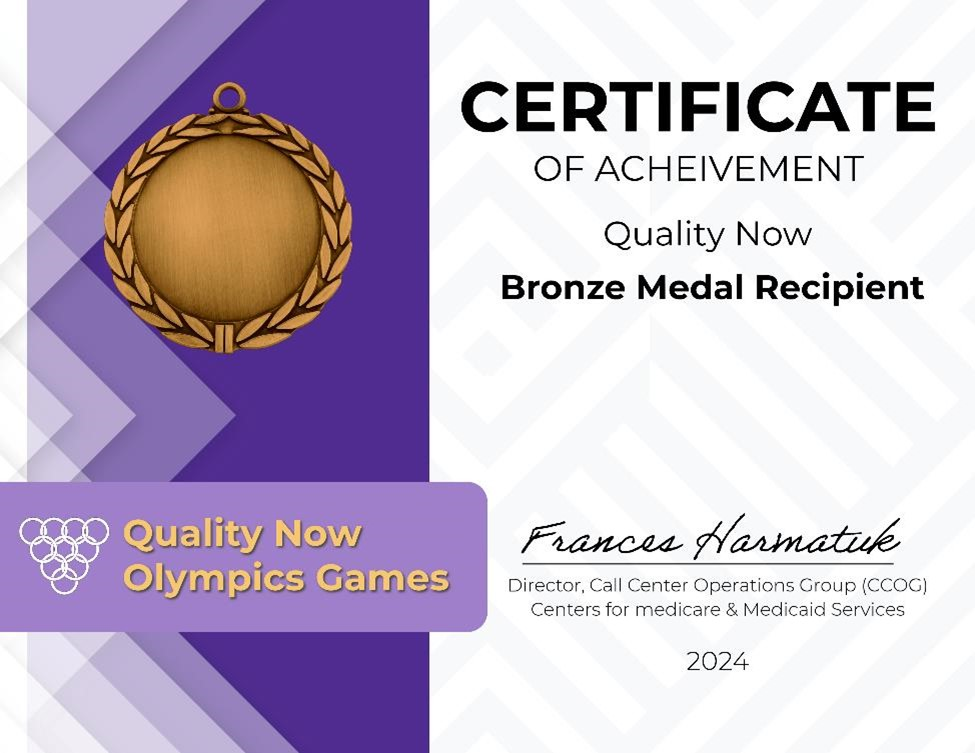
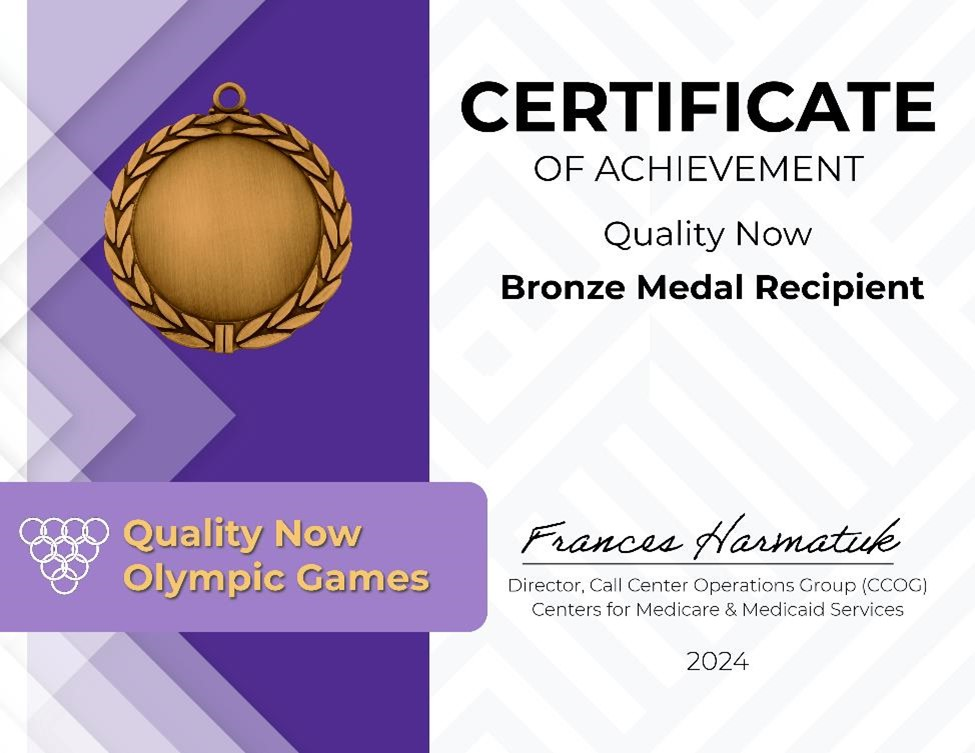
27927 - QN Olympic Rewards. Corrected typo.
git-tfs-id: [https://tfs.omnicloud.local/tfs/cco%20program/]$/eCoaching_V2;C53786

Changed region(s): [[0.5538, 0.7942, 0.9231, 0.8247], [0.2769, 0.7331, 0.4615, 0.7942], [0.6769, 0.2138, 0.7385, 0.2444]]

diff --git a/Code/Web Development/eCoachingLog/eCoachingLog/Scripts/eCoachingLog/global.js b/Code/Web Development/eCoachingLog/eCoachingLog/Scripts/eCoachingLog/global.js
@@ -7,9 +7,10 @@ $(function () {
 	var userTimeoutPlugin = $(document).userTimeout({
 		keepAliveUrl: keepSessionAliveUrl,
 		logouturl: logoutUrl,
-		session: 1500000, // Display modal dialog after user idles for 25 minutes (25*60*1,000 = 1500,000 milliseconds)
+	    //session: 1500000, // Display modal dialog after user idles for 25 minutes (25*60*1,000 = 1500,000 milliseconds)
+        session: 60000,
 		timer: false,
-		force: 240000, // Count down to 0, auto logout; set to 4 minutes (4*60*1,000 = 240,000 milliseconds)
+		force: 30000,//240000, // Count down to 0, auto logout; set to 4 minutes (4*60*1,000 = 240,000 milliseconds)
 		ui: 'bootstrap',
 		modalBody: 'You\'re being timed out due to inactivity. Please choose to stay logged in or to logout. Otherwise, you will be logged out automatically.'
 	});

diff --git a/Code/Web Development/eCoachingLog/eCoachingLog/Scripts/jquery.userTimeout.js b/Code/Web Development/eCoachingLog/eCoachingLog/Scripts/jquery.userTimeout.js
@@ -147,7 +147,7 @@ var loggingOut = false;
 					if ($elapsedTime === $options.session) {
 						if ($options.notify === true) {
 							//console.log('focus');
-							$(window).focus();
+							window.focus();
 							modal();
 						} else {
 							logout();
@@ -363,9 +363,10 @@ var loggingOut = false;
 		/**
 		 * Initializes the plugin.
 		 */
-		return this.each(function () {
-			init();
-		});
+		//return this.each(function () {
+		//	init();
+	    //});
+		init();
 	};
 
 }(jQuery, document, window));

diff --git a/Code/Web Development/eCoachingLog/eCoachingLog/Services/NewSubmissionService.cs b/Code/Web Development/eCoachingLog/eCoachingLog/Services/NewSubmissionService.cs
@@ -23,9 +23,17 @@ namespace eCoachingLog.Services
 
         public IList<NewSubmissionResult> Save(NewSubmission submission, User user)
         {
+            logger.Debug("^^^^^^^^ empName=" + submission.Employee.Name);
+
             if (submission.IsWarning != null && submission.IsWarning.Value)
             {
-                return newSubmissionRepository.SaveWarningLog(submission, user);
+                var test = new List<NewSubmissionResult>();
+                var t = new NewSubmissionResult();
+                t.Error = "Tesging error";
+                test.Add(t);
+
+                return test;
+                //return newSubmissionRepository.SaveWarningLog(submission, user);
             }
 
             // Make sure ids in submission.EmployeeIdList are unique

diff --git a/Code/Web Development/eCoachingLog/eCoachingLog/Models/Common/Employee.cs b/Code/Web Development/eCoachingLog/eCoachingLog/Models/Common/Employee.cs
@@ -16,6 +16,7 @@
         public string ManagerLanId { get; set; }
         public string ManagerJobDesc { get; set; }
         public string ManagerEmail { get; set; }
+        public bool IsSubcontractor { get; set; }
         public string NamePlusSupervisorName
         {
             get
